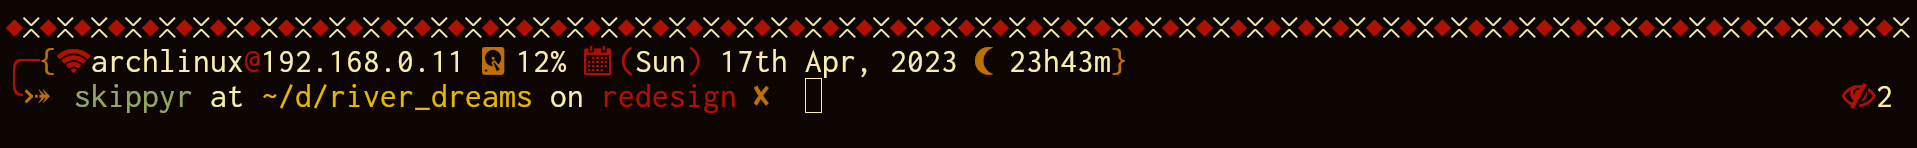
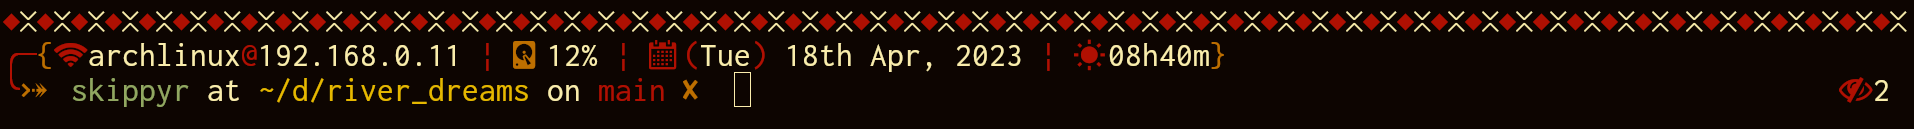
feat: add separator to help distinguish data

diff --git a/sources/left_prompt.c b/sources/left_prompt.c
@@ -64,7 +64,7 @@ void print_time(void)
 {
 	time_t now = time(NULL);
 	struct tm *local_time = localtime(&now);
-	printf(" %%F{red}");
+	printf(" %%F{red}¦ ");
 	printf(
 		"%s",
 		is_to_use_fallback_text() ?
@@ -157,7 +157,7 @@ void print_time(void)
 			break;
 	}
 	printf(
-		", %d ",
+		", %d %%F{red}¦ ",
 		1900 + local_time->tm_year
 	);
 	if (is_to_use_fallback_text())
@@ -215,7 +215,7 @@ void print_local_ipv4_address(void)
 	printf(
 		"%%F{red}%s%%f%%m%%F{red}@%%f%s",
 		is_to_use_fallback_text() ?
-		"Ip " :
+		"IP " :
 		" ",
 		inet_ntoa(*(struct in_addr *) host_entry->h_addr_list[0])
 	);
@@ -231,7 +231,7 @@ void print_disk_usage_percentage(void)
 	);
 	const unsigned long total = sysdisk_status.f_blocks * sysdisk_status.f_bsize;
 	printf(
-		" %%F{yellow}%s%%f%u%%%%",
+		" %%F{red}¦ %%F{yellow}%s%%f%u%%%%",
 		is_to_use_fallback_text() ?
 		"Disk " :
 		" ",

diff --git a/README.md b/README.md
@@ -3,7 +3,7 @@
 		<p>River Dreams is a fast multi line ZSH theme.</p>
 		<img src="./images/image_0.png"/>
 		<img src="./images/image_1.png"/>
-		<p>In the images, River Dreams was used on the <a href="https://github.com/kovidgoyal/kitty">Kitty</a> terminal with the <a href="https://github.com/skippyr/flamerial">Flamerial</a> color palette and <a href="https://fonts.google.com/specimen/Inconsolata">Inconsolata</a> font. Noto Fonts and Symbols Nerd Font were used as fallback fonts.</p>
+		<p>In the images, River Dreams was used on the <a href="https://github.com/kovidgoyal/kitty">Kitty</a> and xterm terminals with the <a href="https://github.com/skippyr/flamerial">Flamerial</a> color palette and <a href="https://fonts.google.com/specimen/Inconsolata">Inconsolata</a> font. Noto Fonts and Symbols Nerd Font were used as fallback fonts.</p>
 		<p>The philosophy behind River Dreams is to create a comfortable environment for people that want to spend most of their time in the terminal, by grouping most of the information that you would normally find in a system's bar in it.</p>
 		<p>Like this, it reduces your need of a graphical environment and becomes a great addition for when you are using a window manager or can not have access to your graphical environment, like when doing a maintenance.</p>
 		<p>In your prompt, you will find:</p>
